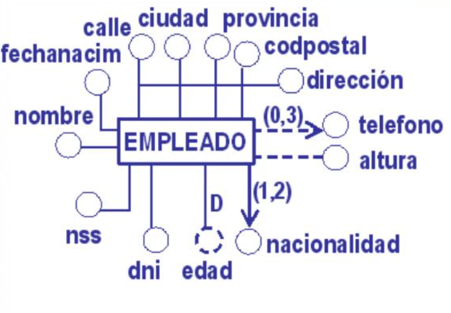
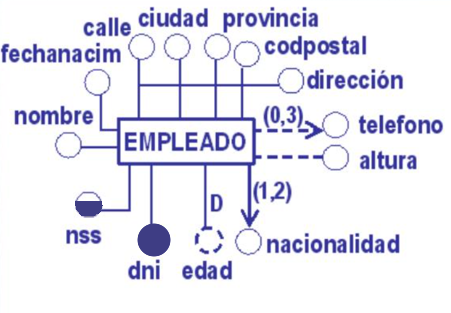
tema 2

Changed region(s): [[0.2794, 0.7188, 0.4035, 0.8339], [0.1552, 0.6326, 0.2483, 0.6901]]

diff --git a/Tema2/Apuntes.md b/Tema2/Apuntes.md
@@ -28,13 +28,6 @@
 
 ## 1.- 📊 MODELO DE DATOS
 
-Un modelo pretende crear una simplificación de la realidad para poder comprenderla mejor.  
-Para realizar un modelo se realiza una **abstracción más simple** de la realidad.  
-
-Se usan modelos en diferentes áreas de la informática, como por ejemplo:  
-- UML en Ingeniería del Software  
-- Modelo Entidad/Relación para BD  
-
 Un **modelo de datos** es un conjunto de herramientas y reglas para representar:  
 - Datos  
 - Relaciones entre éstos  
@@ -71,23 +64,23 @@ Transformamos el diseño conceptual en una estructura que pueda ser entendida po
 💾 **Modelo físico**
 Finalmente, adaptamos ese diseño a un SGBD concreto, teniendo en cuenta cómo se almacenarán y gestionarán realmente los datos.
 
-    👉 Por ejemplo, podemos implementar nuestra base de datos utilizando MySQL, PostgreSQL, Oracle, Access, etc.
+    👉 Podemos implementar nuestra base de datos utilizando MySQL, PostgreSQL, Oracle, Access, etc.
 
 Por tanto, los modelos no son soluciones diferentes, sino distintas representaciones de la misma solución a lo largo del proceso de diseño.
 
 <img src="img/modeloDatos.png" alt="Clasificación de los modelos de datos" width="600">
 
-💡 En este tema seguiremos este proceso: comenzaremos con el modelo conceptual, utilizando diagramas Entidad-Relación, y posteriormente lo transformaremos en un modelo lógico relacional, que nos permitirá llegar finalmente a las tablas de nuestra base de datos.
-
 ## 2.- 🗂 LOS DIAGRAMAS E/R
 
-El modelo Entidad-Relación es un modelo **puramente conceptual**. Representa el funcionamiento de un sistema de información mediante un diagrama Entidad-Relación (E/R). Facilita enormemente el diseño de una base de datos. Es muy representativo del funcionamiento del sistema de información y es **independiente del SGBD**. Toma como referencia la percepción que tenemos del funcionamiento del mundo real.
+El modelo Entidad-Relación es un modelo conceptual que permite representar gráficamente la información de un sistema, antes de crear la base de datos.
 
-En un **esquema Entidad–Relación** representamos de manera gráfica cómo se organiza la información en una base de datos. Consta solo de tres elementos:
+Es independiente del SGBD y facilita el diseño de la base de datos.
 
-- **Entidades**: son los objetos principales sobre los que queremos almacenar información (por ejemplo, un *Cliente*, un *Coche*, un *Empleado*…). Cada entidad se representa con un **rectángulo**.  
-- **Atributos**: son las propiedades o características de las entidades. Por ejemplo, un *Cliente* puede tener como atributos *nombre*, *teléfono* o *dirección*, y un *Coche* puede tener *matrícula* o *marca*. Los atributos se representan con **círculos**, unidos a la entidad a la que pertenecen.  
-- **Relaciones**: muestran cómo se conectan las entidades entre sí. Por ejemplo, un *Cliente* puede **alquilar** un *Coche*. Las relaciones se representan con un **rombo**, que se une mediante **líneas** a las entidades que relaciona.
+Un diagrama E/R utiliza tres elementos:
+
+🟦 Entidades → objetos sobre los que queremos guardar información. Se representan con rectángulos.
+⚪ Atributos → características de las entidades. Se representan con círculos.
+🔷 Relaciones → indican cómo se relacionan las entidades. Se representan con rombos.
 
 De esta forma, el diagrama nos permite ver de un vistazo qué entidades forman parte del sistema, qué características tiene cada una y cómo se relacionan entre ellas.
 
@@ -128,7 +121,7 @@ Los atributos de una entidad se representan mediante **pequeños círculos unido
 
 <img src="img/atributo1.png" alt="Atributos" width="400px"/>
 
-El **tipo de dato** de un atributo determina qué tipo de valores puede tomar un atributo. Los más habituales son:
+El **tipo de dato de un atributo** determina qué tipo de valores puede tomar un atributo. Los más habituales son:
 
 🔤 **Texto** → nombres, direcciones, descripciones.
 
@@ -145,7 +138,7 @@ El **tipo de dato** de un atributo determina qué tipo de valores puede tomar un
 📋 **Enumerado** → valores de una lista concreta: Pendiente, Enviado, Entregado.
 
 
-El **dominio de dato** de un atributo determina que tipo de valores puede tomas y además indicar que valores son válidos.
+El **dominio de dato de un atributo** determina que tipo de valores puede tomar y además indicar que valores son válidos.
 
 Diferencia entre tipo de dato y dominio:
 - **Tipo de dato** → indica cómo se representa o almacena un valor.
@@ -203,7 +196,7 @@ Ejemplos de atributos y dominios de la entidad EMPLEADO:
     <img src="img/atributo4.png" alt="Atributos opcionales" width="400px"/>
 
 4. 🧮 *Atributos derivados y no derivados*  
-    - Un atributo es **derivado** si se puede obtener a partir de los datos contenidos en otros atributos. Por ejemplo, **IMPORTE DE VENTA** si se obtiene de **UNIDADES VENDIDAS** × **PRECIO UNIDAD** (no es recomendable abusar de atributos derivados).  
+    - Un atributo es **derivado** si se puede obtener a partir de los datos contenidos en otros atributos. Por ejemplo, **IMPORTE DE VENTA** si se obtiene de **UNIDADES VENDIDAS** × **PRECIO UNIDAD** (no es recomendable abusar de atributos derivados). Se representa con una D mayúscula al lado del atributo.
     - Un atributo es **no derivado** si su valor no depende de ningún otro atributo.
 
 5. 🔑 *Atributo Clave*  
@@ -215,7 +208,7 @@ Ejemplos de atributos y dominios de la entidad EMPLEADO:
 
 
 **Observa y analiza el siguiente ejemplo:**  
-Indica para cada atributo de qué tipo es, haciendo un examen lo más exhaustivo posible. Indica para cada campo si es **obligatorios/opcionales**, **compuestos/simples**, **derivado/no derivado**, **monovaluado/multivaluado**.
+Indica para cada atributo de qué tipo es, haciendo un examen lo más exhaustivo posible. Indica para cada campo si es **clave primaria**, **clave alternativa**, **obligatorios/opcionales**, **compuestos/simples**, **derivado/no derivado**, **monovaluado/multivaluado**.
 
 <img src="img/atributo6.png" alt="Ejemplo de atributos" width="400px"/>
 
@@ -268,7 +261,7 @@ La cardinalidad se indica mediante una **pareja de números entre paréntesis**:
 - El **primer número** indica el mínimo (0 o 1).  
 - El **segundo número** indica el máximo (1 o N, para muchos).  
 
-<img src="img/cardinalidad1.png" alt="Ejemplo de cardinalidad" width="400px"/>
+<img src="img/cardinalidad1.png" alt="Ejemplo de cardinalidad" width="700px"/>
 
 #### ❓ Preguntas para obtener mínimos y máximos
 
